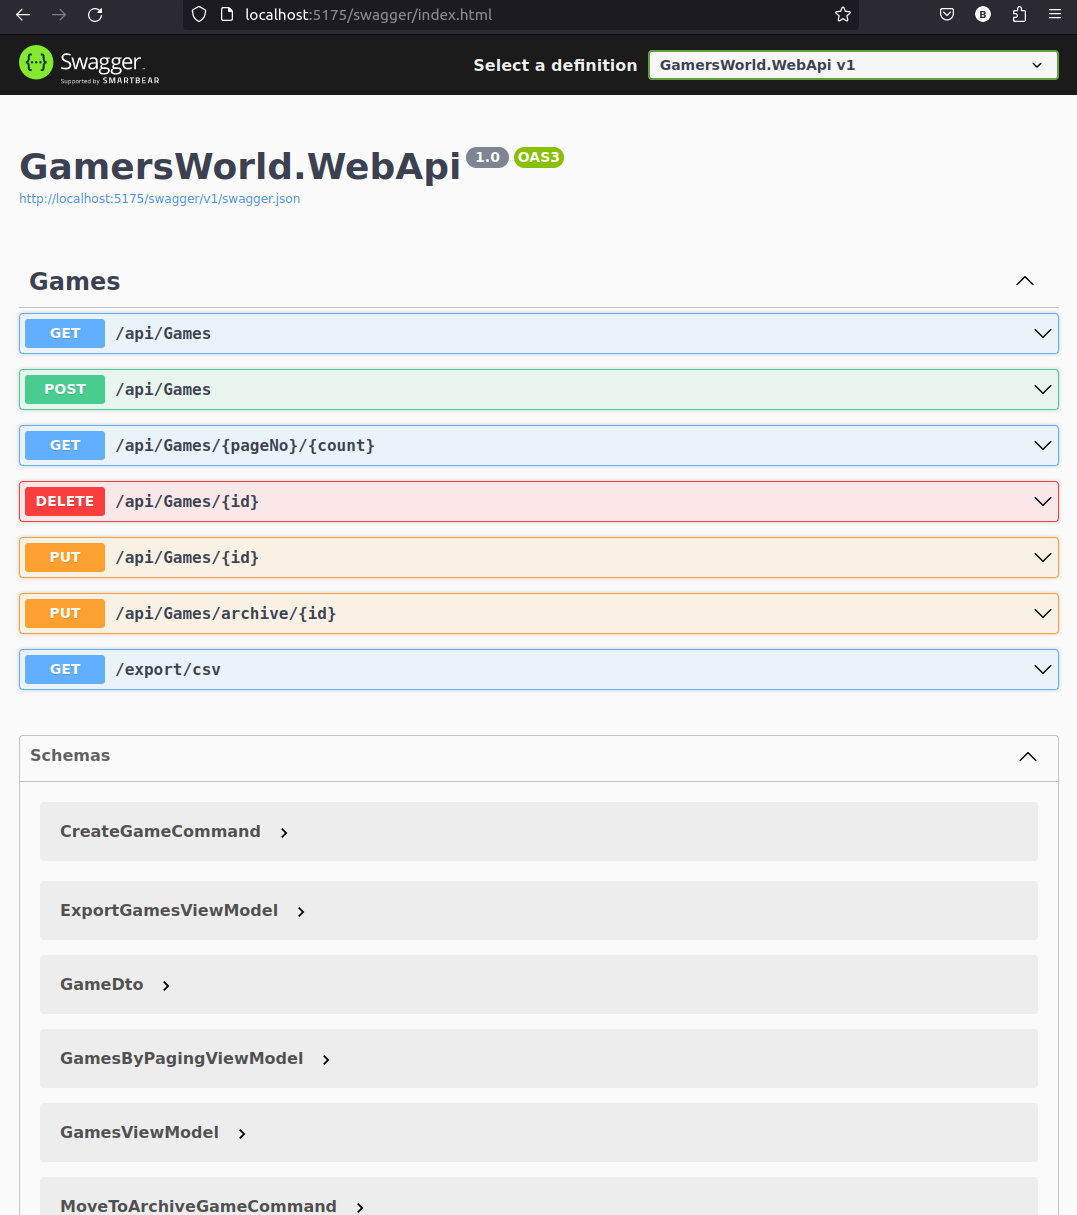
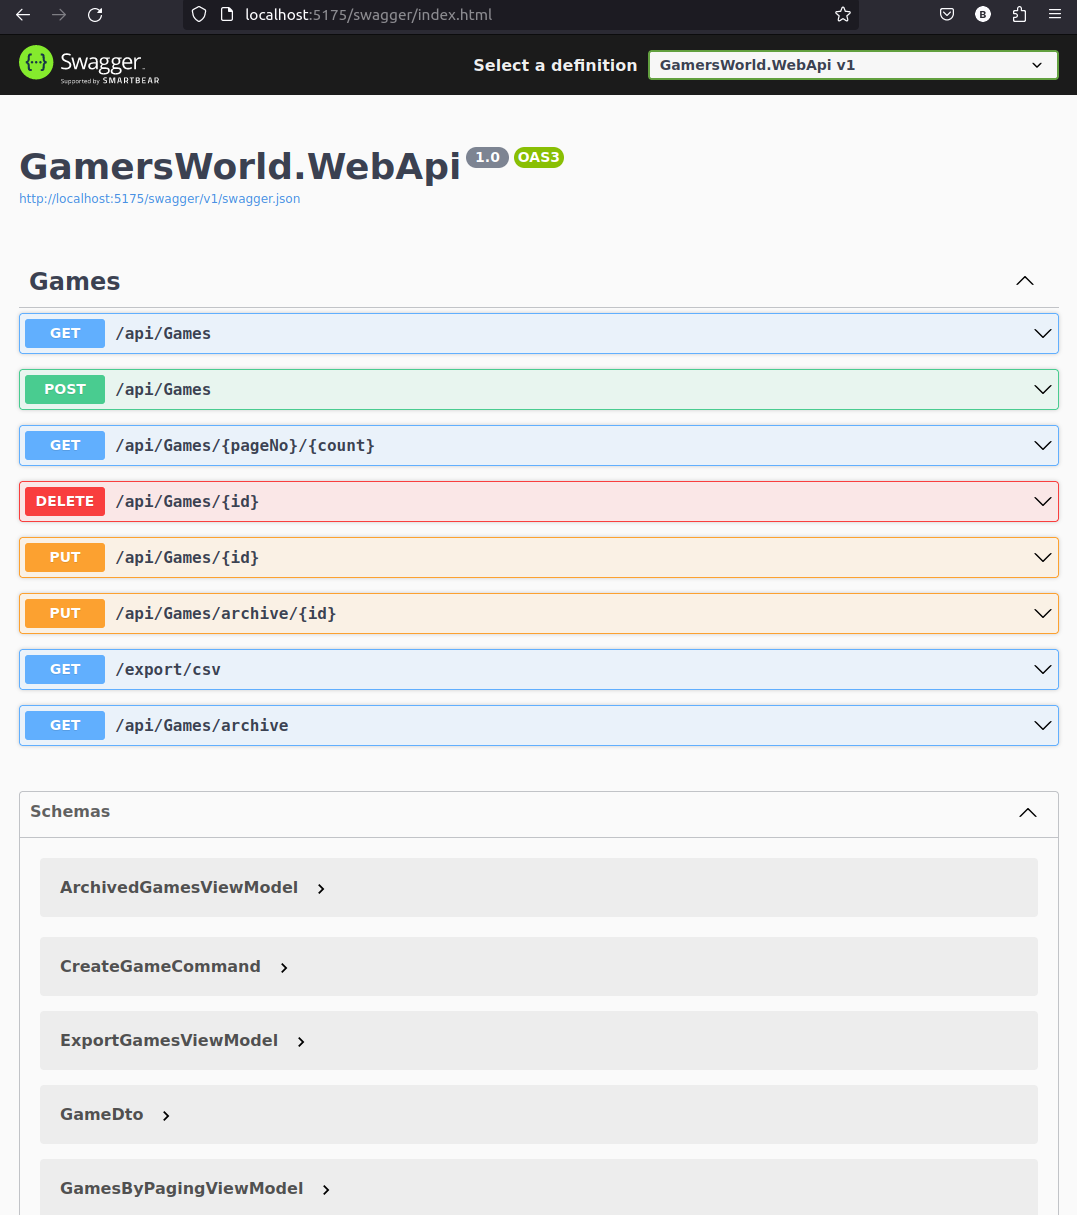
Riched with a new query.

diff --git a/GamersWorld/src/core/GamersWorld.Application/Games/Queries/GetArchivedGames/GetArchivedGamesQuery.cs b/GamersWorld/src/core/GamersWorld.Application/Games/Queries/GetArchivedGames/GetArchivedGamesQuery.cs
@@ -1,0 +1,34 @@
+using AutoMapper;
+using AutoMapper.QueryableExtensions;
+using GamersWorld.Application.Dtos.Games;
+using GamersWorld.Application.Common.Interfaces;
+using MediatR;
+using Microsoft.EntityFrameworkCore;
+
+namespace GamersWorld.Application.Games.Queries.GetArchivedGames;
+
+public class GetArchivedGamesQuery
+    : IRequest<ArchivedGamesViewModel>
+{
+}
+
+public class GetArchivedGamesQueryHandler(IApplicationDbContext context, IMapper mapper)
+    : IRequestHandler<GetArchivedGamesQuery, ArchivedGamesViewModel>
+{
+    private readonly IApplicationDbContext _context = context;
+    private readonly IMapper _mapper = mapper;
+    public async Task<ArchivedGamesViewModel> Handle(GetArchivedGamesQuery request, CancellationToken cancellationToken)
+    {
+        ArchivedGamesViewModel gamesViewModel = new()
+        {
+            GameList = await
+                _context
+                    .Games
+                    .Where(g => g.IsArchived)
+                    .ProjectTo<GameDto>(_mapper.ConfigurationProvider)
+                    .OrderBy(g => g.Title)
+                    .ToListAsync(cancellationToken)
+        };
+        return gamesViewModel;
+    }
+}

diff --git a/GamersWorld/src/presentation/GamersWorld.WebApi/Controllers/GamesController.cs b/GamersWorld/src/presentation/GamersWorld.WebApi/Controllers/GamesController.cs
@@ -4,6 +4,7 @@ using GamersWorld.Application.Games.Commands.DeleteGame;
 using GamersWorld.Application.Games.Commands.MoveToArchiveGame;
 using GamersWorld.Application.Games.Commands.UpdateGame;
 using GamersWorld.Application.Games.Queries.ExportGames;
+using GamersWorld.Application.Games.Queries.GetArchivedGames;
 using GamersWorld.Application.Games.Queries.GetGames;
 using GamersWorld.Application.Games.Queries.GetGamesByPaging;
 using MediatR;
@@ -105,5 +106,12 @@ public class GamesController(IMediator mediator, ILogger<GamesController> logger
     public async Task<ActionResult<ExportGamesViewModel>> Export()
     {
         return await _mediator.Send(new ExportGamesQuery());
+    }
+
+    [HttpGet("archive")]
+    public async Task<ActionResult<ArchivedGamesViewModel>> GetArchivedGames()
+    {
+        GetArchivedGamesQuery query = new();
+        return await _mediator.Send(query);
     }
 }

diff --git a/GamersWorld/src/core/GamersWorld.Application/Games/Queries/GetArchivedGames/ArchivedGamesViewModel.cs b/GamersWorld/src/core/GamersWorld.Application/Games/Queries/GetArchivedGames/ArchivedGamesViewModel.cs
@@ -1,0 +1,7 @@
+using GamersWorld.Application.Dtos.Games;
+
+namespace GamersWorld.Application.Games.Queries.GetArchivedGames;
+
+public class ArchivedGamesViewModel{
+    public IList<GameDto> GameList { get; set; }
+}
